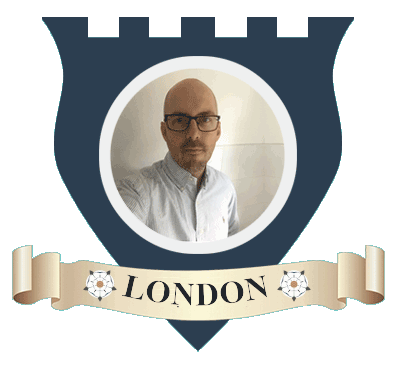
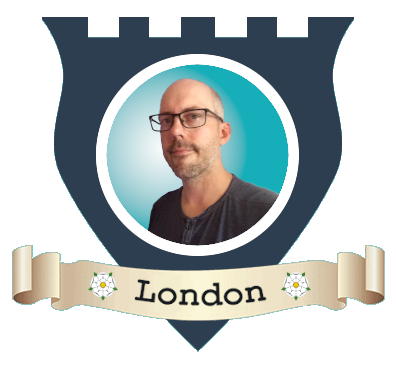
Amended profile pic, updated detail

Changed region(s): [[0.2424, 0.1491, 0.7576, 0.7154], [0.2121, 0.7154, 0.7879, 0.8347]]

diff --git a/src/components/splash.module.css b/src/components/splash.module.css
@@ -10,6 +10,7 @@
     text-transform: uppercase;
     font-weight: 700;
     font-size: 2em;
+    letter-spacing: 1px;
 }
 
 @media (min-width: 768px) {
@@ -18,7 +19,7 @@
         padding-bottom: 100px;
     }
     .title {
-        font-size: 2.5em;
+        font-size: 3em;
     }
     .splash .intro-text .skills {
         font-size: 2em;
